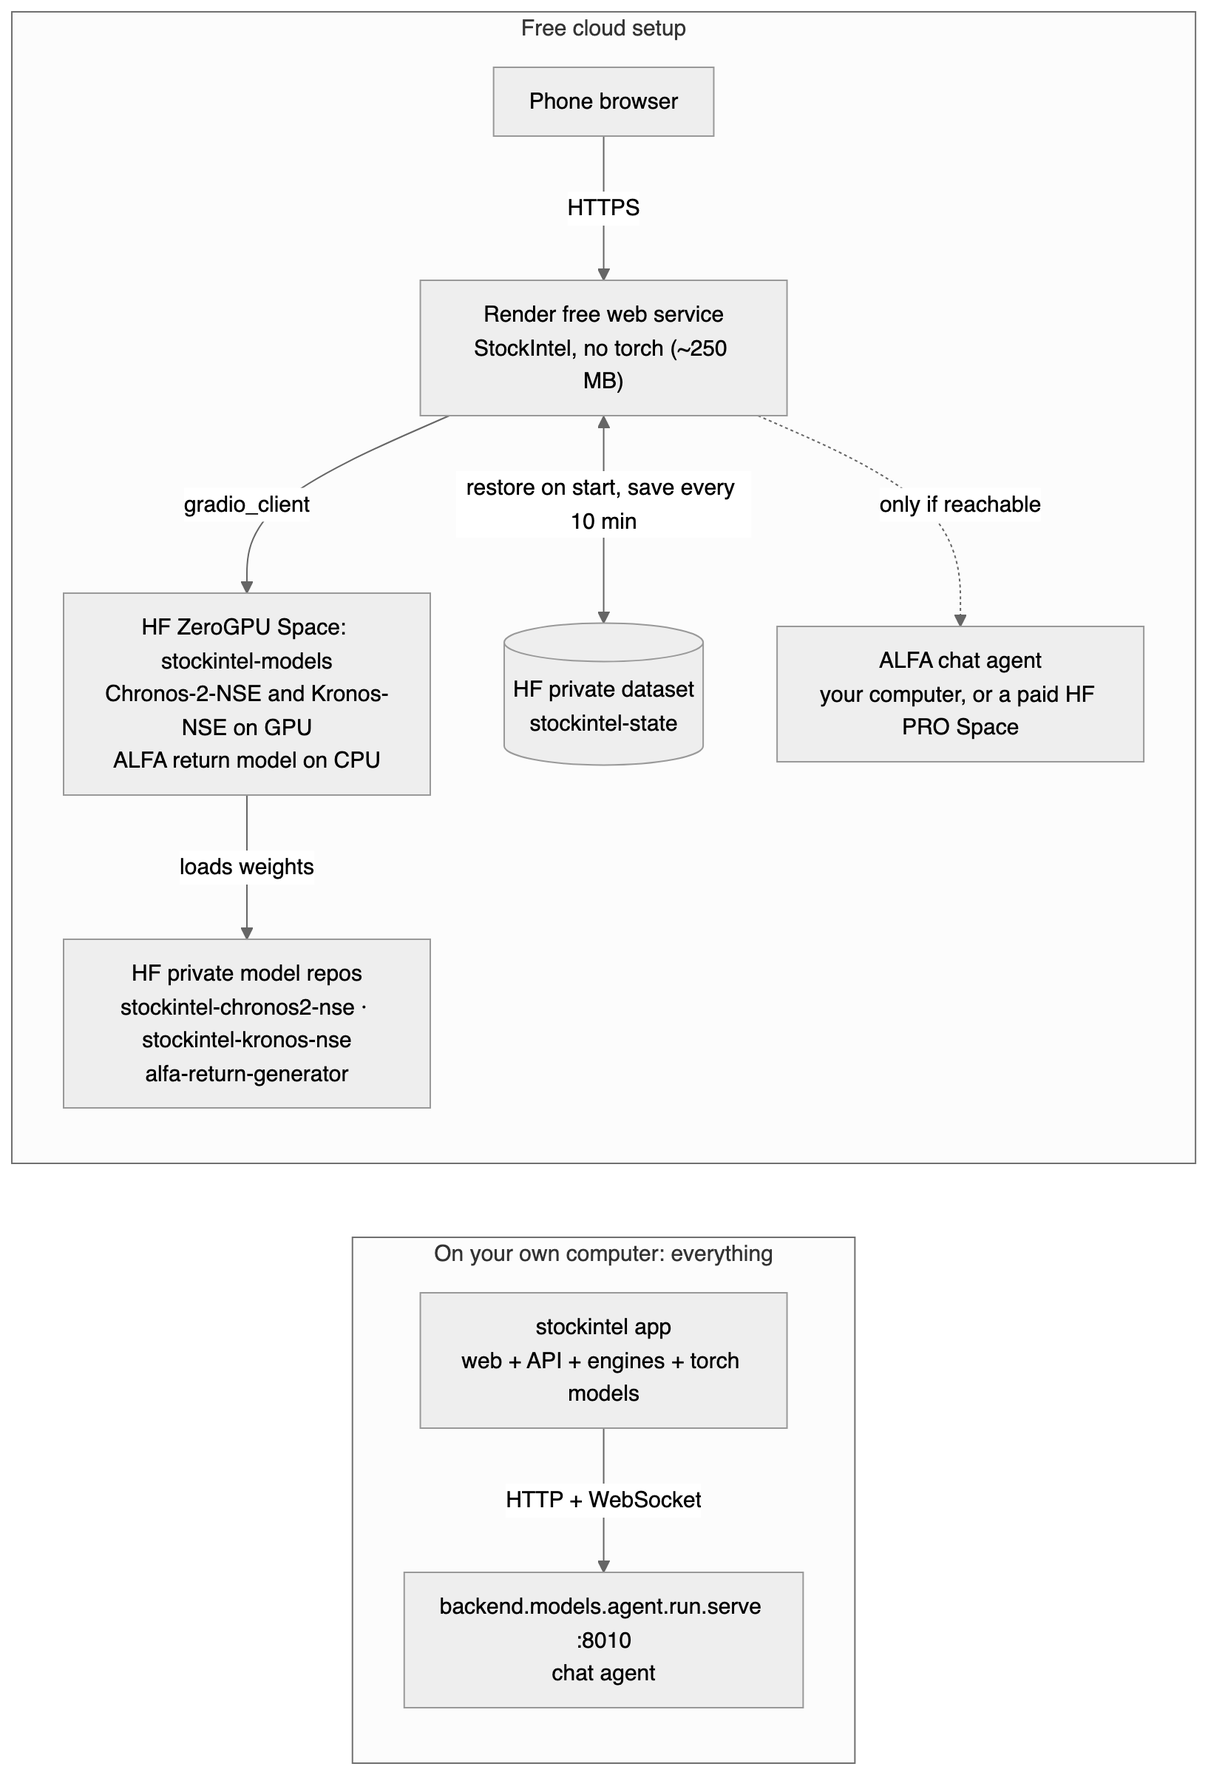
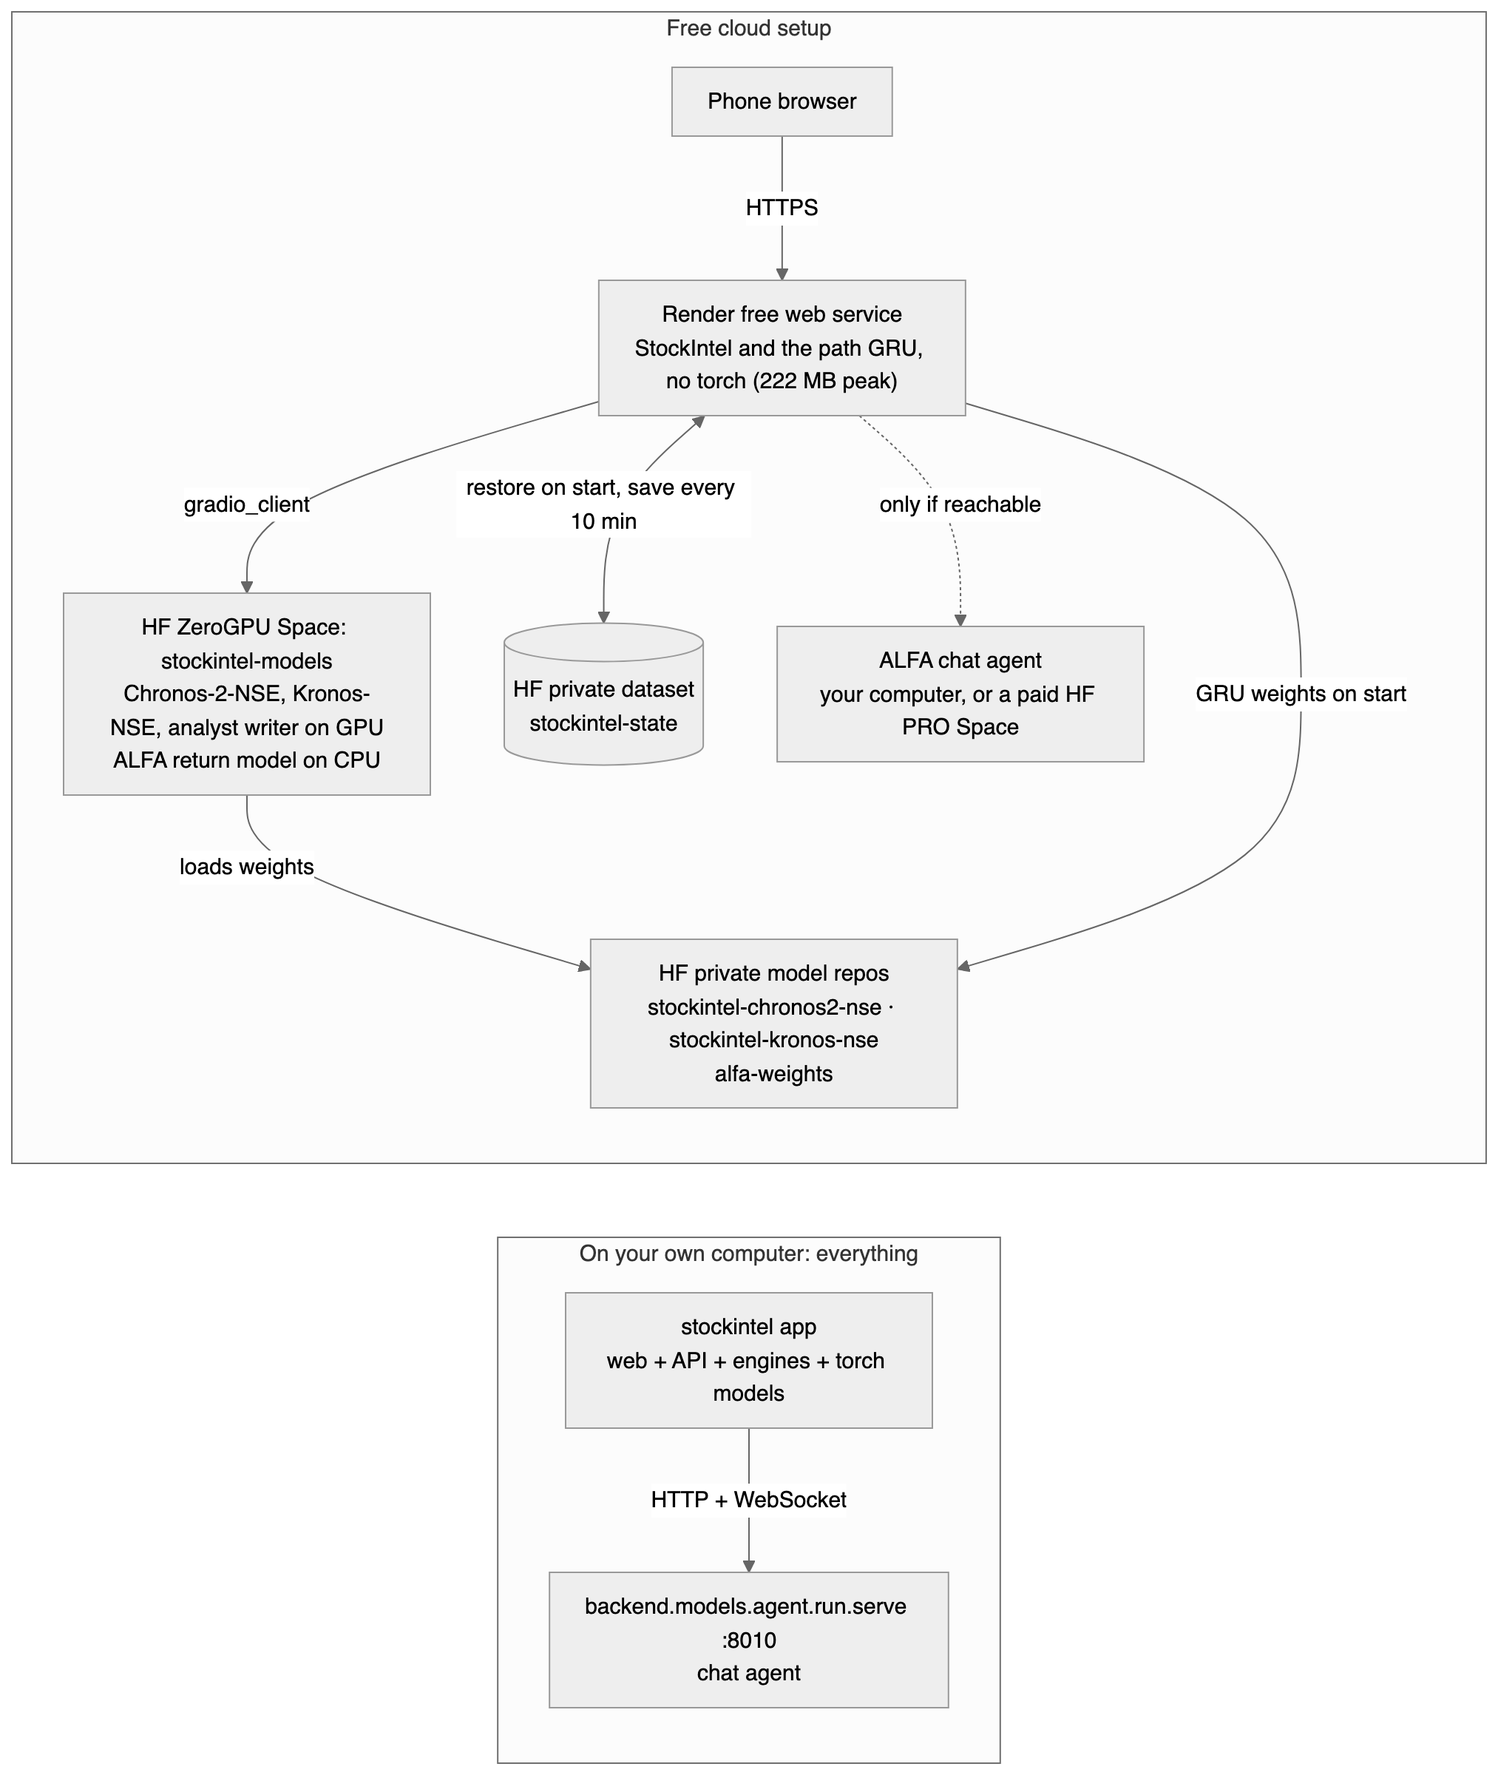
Deploy the merged project: GRU on Render, ALFA's return model and the analyst writer on the ZeroGPU Space
The return model takes 7 s of CPU per stock, over a minute on Render's 0.1 CPU, so it runs on the Space whenever one is set; the Space now installs the backend from GitHub instead of a copied ALFA folder.

diff --git a/deploy/publish_to_hf.py b/deploy/publish_to_hf.py
@@ -1,61 +1,62 @@
-"""Publish StockIntel's trained models and the model Space to your Hugging Face account.
+"""Publish the trained models and the model Space to your Hugging Face account.
 
 Everything is created private. Run after `hf auth login` (write token) and after pushing this
-repository to GitHub, because the Space installs StockIntel from there:
+repository to GitHub, because the Space installs the backend package from there. The Space gets
+its own read-only token, since it only reads the model repos:
 
-    .venv/bin/python deploy/publish_to_hf.py --alfa "/path/to/ALFA-project"
+    cd backend && HF_SPACE_TOKEN=<read token> .venv/bin/python ../deploy/publish_to_hf.py
 """
 from __future__ import annotations
 
 import argparse
+import os
 from pathlib import Path
 
-from huggingface_hub import HfApi, SpaceHardware, get_token
+from huggingface_hub import HfApi, SpaceHardware
+
+from backend.models.serving import weights
+from backend.paths import ARTIFACTS
 
 HERE = Path(__file__).resolve().parent
-MODELS = Path.home() / ".stockintel" / "models"
-# the ALFA files the return generator needs: its loader, the selfagent package, its weights
-ALFA_CODE = ("backend/__init__.py", "backend/models/__init__.py", "backend/models/price.py",
-             "backend/models/registry.py", "backend/models/scenarios.py")
 
 
 def main() -> None:
     ap = argparse.ArgumentParser(description=__doc__.splitlines()[0])
-    ap.add_argument("--alfa", required=True, type=Path, help="the ALFA project folder")
     ap.add_argument("--space", default="stockintel-models")
     args = ap.parse_args()
+    space_token = os.environ.get("HF_SPACE_TOKEN")
+    if not space_token:
+        raise SystemExit("set HF_SPACE_TOKEN to a read-only token from huggingface.co/settings/tokens; "
+                         "the Space uses it to read the private model repos")
     api = HfApi()
     user = api.whoami()["name"]
     repos = {"chronos": f"{user}/stockintel-chronos2-nse", "kronos": f"{user}/stockintel-kronos-nse",
-             "alfa": f"{user}/alfa-return-generator"}
+             "alfa": f"{user}/alfa-weights"}
     space = f"{user}/{args.space}"
-    sources = {"chronos": MODELS / "chronos-2-nse", "kronos": MODELS / "kronos-nse"}
-    missing = [str(p) for p in [*sources.values(), args.alfa / "artifacts/returns.npz", args.alfa / "selfagent"] if not p.exists()]
+    sources = {"chronos": ARTIFACTS / "external" / "chronos-2-nse", "kronos": ARTIFACTS / "external" / "kronos-nse"}
+    missing = [str(p) for p in [*sources.values(), *weights.PUBLISHED] if not p.exists()]
     if missing:
         raise SystemExit(f"missing: {', '.join(missing)} (train with `stockintel train-chronos` / `train-kronos`, "
-                         "and point --alfa at the ALFA project)")
+                         "models/training/train_return_generator.py and train_path_gru.py)")
 
     for repo in repos.values():
         api.create_repo(repo, private=True, exist_ok=True)
     for name, folder in sources.items():
         api.upload_folder(repo_id=repos[name], folder_path=folder, commit_message=f"{name} fine-tuned on NSE")
         print("uploaded", repos[name])
-    api.upload_file(path_or_fileobj=args.alfa / "artifacts/returns.npz", path_in_repo="returns.npz", repo_id=repos["alfa"])
+    for f in weights.PUBLISHED:
+        api.upload_file(path_or_fileobj=f, path_in_repo=f.name, repo_id=repos["alfa"])
     print("uploaded", repos["alfa"])
 
     api.create_repo(space, repo_type="space", space_sdk="gradio", private=True, exist_ok=True)
     api.upload_folder(repo_id=space, repo_type="space", folder_path=HERE / "hf-models-space", commit_message="model Space")
-    api.upload_folder(repo_id=space, repo_type="space", folder_path=args.alfa / "selfagent", path_in_repo="alfa/selfagent",
-                      ignore_patterns=["**/__pycache__/**"], commit_message="ALFA selfagent package")
-    for rel in ALFA_CODE:
-        api.upload_file(path_or_fileobj=args.alfa / rel, path_in_repo=f"alfa/{rel}", repo_id=space, repo_type="space")
     for key, value in (("STOCKINTEL_CHRONOS_MODEL", repos["chronos"]), ("STOCKINTEL_KRONOS_MODEL", repos["kronos"]),
-                       ("ALFA_RETURNS_REPO", repos["alfa"])):
+                       ("ALFA_MODELS_REPO", repos["alfa"])):
         api.add_space_variable(space, key, value)
-    api.add_space_secret(space, "HF_TOKEN", get_token())   # the Space reads the private model repos with it
+    api.add_space_secret(space, "HF_TOKEN", space_token)
     api.request_space_hardware(space, SpaceHardware.ZERO_A10G)
     print(f"Space {space} is building on ZeroGPU: https://huggingface.co/spaces/{space}\n"
-          f"Point the app at it with STOCKINTEL_MODEL_SPACE={space} (and HF_TOKEN, since it is private).")
+          f"On Render set STOCKINTEL_MODEL_SPACE={space} and ALFA_MODELS_REPO={repos['alfa']} (and HF_TOKEN).")
 
 
 if __name__ == "__main__":

diff --git a/deploy/hf-models-space/app.py b/deploy/hf-models-space/app.py
@@ -1,7 +1,8 @@
-"""StockIntel model Space, called by the StockIntel server (stockintel/analysis/remote_models.py):
+"""Model Space for the ALFA app, called by backend/models/external/remote_models.py:
 - Chronos price ranges and Kronos candles on free ZeroGPU, with fine-tuned weights pulled from the
   Hub repos named in STOCKINTEL_CHRONOS_MODEL / STOCKINTEL_KRONOS_MODEL;
-- the ALFA return generator (NumPy, CPU), its code under alfa/ and weights from ALFA_RETURNS_REPO.
+- the language model that rewrites the analyst note (backend/models/external/language.py), on ZeroGPU;
+- ALFA's return generator (NumPy, CPU), its weights from ALFA_MODELS_REPO.
 """
 import json
 import os
@@ -12,22 +13,21 @@ if not os.path.exists(KRONOS_DIR):         # Kronos is not on PyPI; pin the comm
     subprocess.run(["git", "clone", "https://github.com/shiyu-coder/Kronos", KRONOS_DIR], check=True)
     subprocess.run(["git", "-C", KRONOS_DIR, "checkout", KRONOS_COMMIT], check=True)
 os.environ["STOCKINTEL_KRONOS_PATH"] = KRONOS_DIR
-os.environ["STOCKINTEL_ALFA_PATH"] = os.path.abspath("alfa")
-if os.environ.get("ALFA_RETURNS_REPO"):
-    from huggingface_hub import hf_hub_download
-    hf_hub_download(os.environ["ALFA_RETURNS_REPO"], "returns.npz", local_dir="alfa/artifacts")
 os.environ.setdefault("STOCKINTEL_TORCH_DEVICE", "cuda" if os.environ.get("SPACES_ZERO_GPU") else "cpu")
 
 import gradio as gr  # noqa: E402
 import pandas as pd  # noqa: E402
 import spaces  # noqa: E402
-from backend.models.serving import alfa_fan as alfa_model
-from backend.models.external import kronos_model, tsfm  # noqa: E402
+from backend.models.external import kronos_model, language, tsfm  # noqa: E402
+from backend.models.serving import alfa_fan as alfa_model, weights  # noqa: E402
 
+if weights.repo():
+    weights.pull([alfa_model.WEIGHTS])
 # ZeroGPU wants the models placed at import time, not inside the GPU functions
 tsfm.pipeline()
 kronos_model.predictor()
-ALFA_ON = alfa_model.available()
+WRITER = language.OpenLM()
+WRITER.load()
 
 
 @spaces.GPU(duration=30)
@@ -42,14 +42,20 @@ def kronos_candles(ohlcv: str, pred_len: float, samples: float) -> str:
     return json.dumps(kronos_model.next_candles(df, int(pred_len), int(samples)))
 
 
+@spaces.GPU(duration=30)
+def write(system: str, messages: str) -> str:
+    reply = WRITER.create(system, json.loads(messages))
+    return json.dumps({"model": reply.model, "text": reply.content})
+
+
 def return_paths(closes: str, steps: float, count: float) -> str:
-    if not ALFA_ON:
-        raise gr.Error("ALFA return model not installed: upload alfa/ and set ALFA_RETURNS_REPO")
+    if not alfa_model.available():
+        raise gr.Error("ALFA return model not installed: set ALFA_MODELS_REPO and restart the Space")
     return json.dumps(alfa_model.fan(pd.Series(json.loads(closes), dtype=float), int(steps), int(count)), default=float)
 
 
-with gr.Blocks(title="StockIntel models") as demo:
-    gr.Markdown("API for the StockIntel app: `/chronos_fan` (closes → price quantiles) and `/kronos_candles` (OHLCV → next candles).")
+with gr.Blocks(title="ALFA models") as demo:
+    gr.Markdown("API for the ALFA app: `/chronos_fan`, `/kronos_candles`, `/return_paths` and `/write`.")
     closes, horizon, fan_out = gr.Textbox(label="closes, JSON list"), gr.Number(10, label="horizon (days)"), gr.Textbox(label="quantiles, JSON")
     gr.Button("Chronos").click(chronos_fan, [closes, horizon], fan_out, api_name="chronos_fan")
     ohlcv, pred_len, samples, candles_out = (gr.Textbox(label="OHLCV, JSON"), gr.Number(5, label="days"),
@@ -58,5 +64,7 @@ with gr.Blocks(title="StockIntel models") as demo:
     rcloses, rsteps, rcount, rout = (gr.Textbox(label="closes, JSON list"), gr.Number(10, label="days"),
                                      gr.Number(500, label="paths"), gr.Textbox(label="fan, JSON"))
     gr.Button("ALFA return model").click(return_paths, [rcloses, rsteps, rcount], rout, api_name="return_paths")
+    system, messages, note = gr.Textbox(label="system prompt"), gr.Textbox(label="messages, JSON"), gr.Textbox(label="reply, JSON")
+    gr.Button("Write").click(write, [system, messages], note, api_name="write")
 
 demo.launch()

diff --git a/backend/tests/app/test_end_to_end.py b/backend/tests/app/test_end_to_end.py
@@ -521,6 +521,33 @@ def test_alfa_forecast_quotes_its_own_saved_record(app_client, monkeypatch):
     assert "beat GARCH(1,1)-t by 0.032 ± 0.003 nats per return over 80,576 returns" in r["note"] and r["note"].endswith("No direction.")
 
 
+def test_alfa_runs_on_the_model_space_when_one_is_set_even_with_local_weights(app_client, monkeypatch):
+    import json as _json
+    import backend.models.external.remote_models as rm
+    import backend.models.serving.alfa_fan as am
+    fan = {**{f"q{q}": [100.0] * am.STEPS for q in (10, 25, 50, 75, 90)},
+           "drawer": {"name": "generative", "test_from": "2023-01-02", "measured": {"vs_garch": -0.03, "vs_garch_error": 0.003, "scored": 9}},
+           "direction_note": "No direction."}
+    fake = _FakeSpace(_json.dumps(fan))
+    monkeypatch.setattr(am, "available", lambda: True)
+    monkeypatch.setattr(am, "fan", lambda *a: pytest.fail("ran on this server's CPU"))
+    monkeypatch.setenv("STOCKINTEL_MODEL_SPACE", "you/stockintel-models")
+    monkeypatch.setattr(rm, "_client", lambda: fake)
+    app_client.get("/ui/stock/TEST/ai?model=alfa", headers={"X-API-Key": KEY})
+    assert fake.calls[0][0] == "/return_paths"
+
+
+def test_published_weights_land_where_the_server_reads_them(monkeypatch, tmp_path):
+    from pathlib import Path
+    import huggingface_hub
+    from backend.models.serving import gru_line, weights
+    got = []
+    monkeypatch.setenv("ALFA_MODELS_REPO", "you/alfa-weights")
+    monkeypatch.setattr(huggingface_hub, "hf_hub_download", lambda repo, name, local_dir: got.append((repo, Path(local_dir) / name)))
+    weights.pull([gru_line.WEIGHTS])
+    assert got == [("you/alfa-weights", gru_line.WEIGHTS)] and gru_line.WEIGHTS in weights.PUBLISHED
+
+
 def test_alfa_says_how_to_reach_it_when_it_cannot(app_client, monkeypatch, tmp_path):
     import backend.models.serving.alfa_fan as am
     monkeypatch.setattr(am, "WEIGHTS", tmp_path / "missing.npz")

diff --git a/backend/backend/models/external/language.py b/backend/backend/models/external/language.py
@@ -37,7 +37,7 @@ class OpenLM:
         self._lock = threading.Lock()
         self._loaded = None
 
-    def _load(self):
+    def load(self):
         if self._loaded is None:
             try:
                 import torch
@@ -55,7 +55,7 @@ class OpenLM:
             raise LLMUnavailable(f"{self.model} is used as a writer only; tool use needs the Claude provider")
         import torch
         with self._lock:
-            tok, lm = self._load()
+            tok, lm = self.load()
             chat = [{"role": "system", "content": system}] + [{"role": m["role"], "content": m["content"]} for m in messages]
             # Qwen3 thinks aloud unless told not to; other templates ignore the flag
             prompt = tok.apply_chat_template(chat, tokenize=False, add_generation_prompt=True, enable_thinking=False)

diff --git a/backend/backend/models/serving/weights.py b/backend/backend/models/serving/weights.py
@@ -1,0 +1,22 @@
+"""Our NumPy models' weights in a private Hugging Face model repo (ALFA_MODELS_REPO, with HF_TOKEN), so a
+host whose disk is wiped on every restart fetches them on start. deploy/publish_to_hf.py uploads them.
+"""
+from __future__ import annotations
+
+import os
+from pathlib import Path
+from typing import Iterable
+
+from backend.models.serving import alfa_fan, gru_line
+
+PUBLISHED = (alfa_fan.WEIGHTS, gru_line.WEIGHTS)
+
+
+def repo() -> str:
+    return os.environ.get("ALFA_MODELS_REPO", "")
+
+
+def pull(files: Iterable[Path]) -> None:
+    from huggingface_hub import hf_hub_download
+    for f in files:
+        hf_hub_download(repo(), f.name, local_dir=f.parent)

diff --git a/backend/backend/api/hub.py b/backend/backend/api/hub.py
@@ -448,7 +448,7 @@ class Hub:
                     cache[key] = {"dates": future(FORECAST_DAYS), **gru_line.line(bars.close.to_numpy(), bars.high.to_numpy(),
                                                                                 bars.low.to_numpy(), bars.market.to_numpy())}
                 elif model == "alfa":
-                    q = (alfa_model.fan(df["close"]) if alfa_model.available()
+                    q = (alfa_model.fan(df["close"]) if local
                          else remote_models.alfa_fan(df["close"], alfa_model.STEPS, alfa_model.PATHS))
                     cache[key] = {"dates": future(alfa_model.STEPS), **q}
                 else:

diff --git a/backend/backend/cli.py b/backend/backend/cli.py
@@ -534,6 +534,9 @@ def cmd_serve(args) -> int:
     import uvicorn
     from backend.database import hfstate
     from backend.api.app import create_app
+    from backend.models.serving import gru_line, weights
+    if weights.repo():                  # the GRU runs here; the slower return model runs on the model Space
+        weights.pull([gru_line.WEIGHTS])
     saver = None
     if hfstate.repo():                  # restore before the database is opened
         logging.getLogger("stockintel.state").setLevel(logging.INFO)

diff --git a/backend/README.md b/backend/README.md
@@ -218,18 +218,20 @@ Spaces, and Render's free plan has 512 MB of RAM and no disk. So the app is spli
 
 | Part | Where | Why there |
 |---|---|---|
-| Website, signals, verdicts, charts | Render free web service (Docker) | Needs ~250 MB without torch; sleeps after 15 idle minutes, wakes in about a minute |
-| Forecast models: Chronos-2 and Kronos fine-tuned on NSE, ALFA's return generator | Your own ZeroGPU Space on Hugging Face (`deploy/hf-models-space`), weights in private model repos | Free accounts may host 2 ZeroGPU Spaces; 5 GPU-minutes a day, and each forecast takes seconds |
+| Website, signals, verdicts, charts, the path GRU | Render free web service (Docker) | Peaked at 222 MB over the six main pages without torch; sleeps after 15 idle minutes, wakes in about a minute |
+| Chronos-2 and Kronos fine-tuned on NSE, ALFA's return generator, the analyst's language model | Your own ZeroGPU Space on Hugging Face (`deploy/hf-models-space`), weights in private model repos | Free accounts may host 2 ZeroGPU Spaces; 5 GPU-minutes a day, and each forecast takes seconds |
 | Portfolio, reports, caches | A private Hugging Face dataset | Render's free disk is wiped on restart; the app restores on start and saves every 10 minutes and on shutdown |
 
 **1. Hugging Face (once).** Your account must have a verified email and be at least 30 days old to host
-a ZeroGPU Space. Push this repository to GitHub first (the Space installs StockIntel from there), then:
+a ZeroGPU Space. Push this repository's `main` to GitHub first (the Space installs the backend from there).
+Create a second, read-only token for the Space, then:
 ```bash
 .venv/bin/hf auth login                                         # paste a write token
-.venv/bin/python deploy/publish_to_hf.py --alfa "<ALFA project folder>"
+HF_SPACE_TOKEN=<read-only token> .venv/bin/python ../deploy/publish_to_hf.py
 ```
-It creates private repos for the fine-tuned Chronos-2 and Kronos weights and ALFA's return generator, uploads
-the model Space with ALFA's code, sets its variables and token, and asks for ZeroGPU hardware.
+It creates private repos for the fine-tuned Chronos-2 and Kronos weights and for our NumPy models (`alfa-weights`:
+the return generator and the path GRU), uploads the model Space, sets its variables and read token, and asks for
+ZeroGPU hardware.
 
 **2. Save your current state from this computer** (portfolio, track record, price cache):
 ```bash
@@ -238,8 +240,8 @@ export STOCKINTEL_STATE_REPO=<you>/stockintel-state HF_TOKEN=<write token>
 ```
 
 **3. Render.** Sign in at render.com with GitHub → *New → Blueprint* → pick this repository. It reads
-`render.yaml`. Fill in `STOCKINTEL_STATE_REPO`, `STOCKINTEL_MODEL_SPACE` (`<you>/stockintel-models`) and
-`HF_TOKEN`. When it is live, copy `STOCKINTEL_API_KEY` from *Environment* and open
+`render.yaml`. Fill in `STOCKINTEL_STATE_REPO`, `STOCKINTEL_MODEL_SPACE` (`<you>/stockintel-models`),
+`ALFA_MODELS_REPO` (`<you>/alfa-weights`) and `HF_TOKEN`. When it is live, copy `STOCKINTEL_API_KEY` from *Environment* and open
 `https://<service>.onrender.com/#key=<that key>` on your phone, then *Add to Home Screen*.
 
 Things to know:

diff --git a/docs/ARCHITECTURE.md b/docs/ARCHITECTURE.md
@@ -23,9 +23,10 @@ flowchart LR
     L1 -- "HTTP + WebSocket" --> L2
   end
   subgraph R["Free cloud setup"]
-    PH["Phone browser"] -- HTTPS --> RD["Render free web service<br/>StockIntel, no torch (~250 MB)"]
-    RD -- "gradio_client" --> SP["HF ZeroGPU Space: stockintel-models<br/>Chronos-2-NSE and Kronos-NSE on GPU<br/>ALFA return model on CPU"]
-    SP -- "loads weights" --> MR["HF private model repos<br/>stockintel-chronos2-nse · stockintel-kronos-nse<br/>alfa-return-generator"]
+    PH["Phone browser"] -- HTTPS --> RD["Render free web service<br/>StockIntel and the path GRU, no torch (222 MB peak)"]
+    RD -- "gradio_client" --> SP["HF ZeroGPU Space: stockintel-models<br/>Chronos-2-NSE, Kronos-NSE, analyst writer on GPU<br/>ALFA return model on CPU"]
+    SP -- "loads weights" --> MR["HF private model repos<br/>stockintel-chronos2-nse · stockintel-kronos-nse<br/>alfa-weights"]
+    RD -- "GRU weights on start" --> MR
     RD <-- "restore on start, save every 10 min" --> DS[("HF private dataset<br/>stockintel-state")]
     RD -. "only if reachable" .-> AG["ALFA chat agent<br/>your computer, or a paid HF PRO Space"]
   end

diff --git a/deploy/hf-models-space/README.md b/deploy/hf-models-space/README.md
@@ -1,5 +1,5 @@
 ---
-title: StockIntel Models
+title: ALFA Models
 emoji: 📈
 colorFrom: green
 colorTo: gray
@@ -13,7 +13,8 @@ models:
   - amazon/chronos-bolt-small
   - NeoQuasar/Kronos-small
   - NeoQuasar/Kronos-Tokenizer-base
+  - microsoft/Phi-4-mini-instruct
 ---
 
-Model API for [StockIntel](https://github.com/Kapurrrishabh/financial-advisor). Choose **ZeroGPU** hardware in
+Model API for [ALFA](https://github.com/Kapurrrishabh/ALFA-Adaptive-Learning-Framework-for-Agents). Choose **ZeroGPU** hardware in
 Settings. The app calls it with `STOCKINTEL_MODEL_SPACE=<you>/stockintel-models`.
